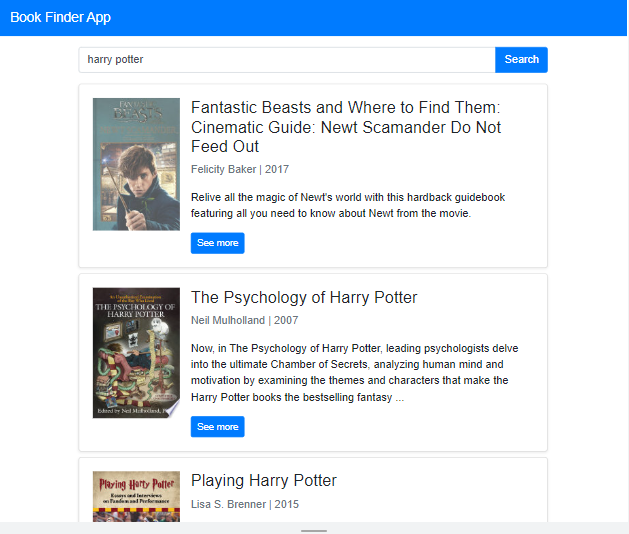
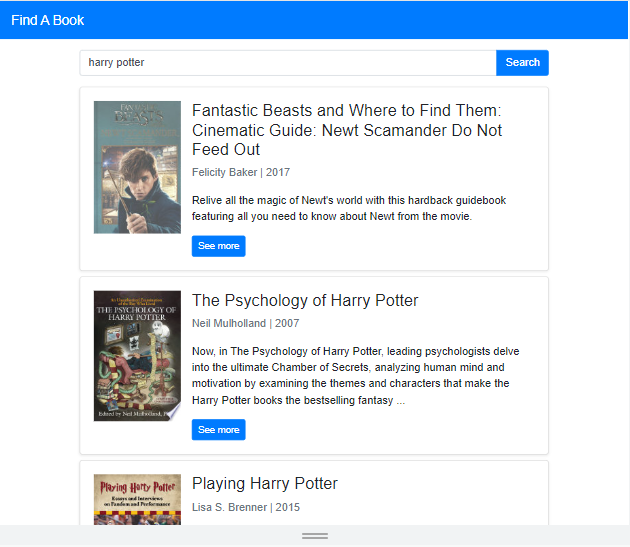
changed images

diff --git a/projects.html b/projects.html
@@ -122,46 +122,43 @@
                         </div>
                     </div>
                     <div class="card">
-                        <img src="./img/project-preview/algo.png"
+                        <img src="./img/project-preview/gamestop.png"
                             alt="Project Preview Screenshot" class="card-preview-img">
                         <div class="card-info">
                             <div class="title-and-links">
                                 <span class="project-title">
-                                    Algorithm Visualizer
+                                    GameStop
                                 </span>
                                 <div class="project-links">
-                                    <a href="https://algorithm-visualizer-self.vercel.app/">
+                                    <a href="https://game-stop.vercel.app/">
                                         <i class="fas fa-external-link-alt"></i>
                                     </a>
-                                    <a href="https://github.com/mohammedsalmanali/algorithm-visualizer">
+                                    <a href="https://github.com/mohammedsalmanali/GameStop">
                                         <i class="fab fa-github"></i>
                                     </a>
                                 </div>
                             </div>
                             <div class="project-skills">
-                                <span>HTML5</span>
-                                <span>CSS3</span>
-                                <span>JavaScript</span>
+                                <span>Angular</span>
                             </div>
                             <p class="project-description">
-                                Visualizes various data structures and algorithms in Computer Science
-using animated graphs and illustrations.
+                                GameStop is a video games database website that provides information on latest video games.
                             </p>
                         </div>
                     </div>
                     <div class="card">
-                        <img src="./img/project-preview/crypto.png"
+                        <img src="./img/project-preview/Store.png"
                             alt="Project Preview Screenshot" class="card-preview-img">
                         <div class="card-info">
                             <div class="title-and-links">
                                 <span class="project-title">
-                                    Crypto Checker
+                                    Express Store
                                 </span>
                                 <div class="project-links">
-                                    <a href="https://crypto-checker-ca5c0.web.app/">
+                                    <a href="https://express-store-chi.vercel.app/">
                                         <i class="fas fa-external-link-alt"></i>
                                     </a>
-                                    <a href="https://github.com/mohammedsalmanali/Crypto-Checker">
+                                    <a href="https://github.com/mohammedsalmanali/Express-Store">
                                         <i class="fab fa-github"></i>
                                     </a>
                                 </div>
@@ -171,7 +168,7 @@ using animated graphs and illustrations.
                                 <span>Material UI</span>
                             </div>
                             <p class="project-description">
-                                An Angular application that displays up-to-date COVID data all across the globe.
+                                Express Store is an E-Commerce website that displays consumer products of multiple categories with Add to Cart option.
                             </p>
                         </div>
                     </div>
@@ -204,31 +201,6 @@ using animated graphs and illustrations.
                         </div>
                     </div>
                     <div class="card">
-                        <img src="./img/project-preview/gamestop.png"
-                            alt="Project Preview Screenshot" class="card-preview-img">
-                        <div class="card-info">
-                            <div class="title-and-links">
-                                <span class="project-title">
-                                    GameStop
-                                </span>
-                                <div class="project-links">
-                                    <a href="https://game-stop.vercel.app/">
-                                        <i class="fas fa-external-link-alt"></i>
-                                    </a>
-                                    <a href="https://github.com/mohammedsalmanali/GameStop">
-                                        <i class="fab fa-github"></i>
-                                    </a>
-                                </div>
-                            </div>
-                            <div class="project-skills">
-                                <span>Angular</span>
-                            </div>
-                            <p class="project-description">
-                                GameStop is a video games database website that provides information on latest video games.
-                            </p>
-                        </div>
-                    </div>
-                    <div class="card">
                         <img src="./img/project-preview/book.png"
                             alt="Project Preview Screenshot" class="card-preview-img">
                         <div class="card-info">
@@ -256,12 +228,12 @@ using animated graphs and illustrations.
                         </div>
                     </div>
                     <div class="card">
-                        <img src="./img/project-preview/book.png"
+                        <img src="./img/project-preview/travel.png"
                             alt="Project Preview Screenshot" class="card-preview-img">
                         <div class="card-info">
                             <div class="title-and-links">
                                 <span class="project-title">
-                                    Find A Book
+                                    Travel Planner
                                 </span>
                                 <div class="project-links">
                                     <a href="https://book-search-app-eta.vercel.app/">
@@ -278,7 +250,35 @@ using animated graphs and illustrations.
                                 <span>JavaScript</span>
                             </div>
                             <p class="project-description">
-                                Find A Book is a website that gives name and other information of the specified book that the user searches.
+                                Travel Planner aims to minimize the total length of the path for a random journey by modeling the cities as a graph and apply Dijkstra's Algorithm.
+                            </p>
+                        </div>
+                    </div>
+                    <div class="card">
+                        <img src="./img/project-preview/algo.png"
+                            alt="Project Preview Screenshot" class="card-preview-img">
+                        <div class="card-info">
+                            <div class="title-and-links">
+                                <span class="project-title">
+                                    Algorithm Visualizer
+                                </span>
+                                <div class="project-links">
+                                    <a href="https://algorithm-visualizer-self.vercel.app/">
+                                        <i class="fas fa-external-link-alt"></i>
+                                    </a>
+                                    <a href="https://github.com/mohammedsalmanali/algorithm-visualizer">
+                                        <i class="fab fa-github"></i>
+                                    </a>
+                                </div>
+                            </div>
+                            <div class="project-skills">
+                                <span>HTML5</span>
+                                <span>CSS3</span>
+                                <span>JavaScript</span>
+                            </div>
+                            <p class="project-description">
+                                Visualize Your Algo helps to visualize various data structures and algorithms in Computer Science
+using animated graphs and illustrations.
                             </p>
                         </div>
                     </div>
